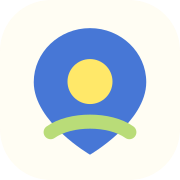
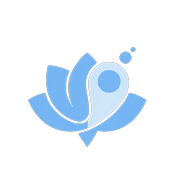
Prevent repeated invites from diluting real participants
Reuse the current browser's board session before offering another anonymous join, while aligning social copy and browser identity with the approved Yeondang logo.

Constraint: Shared invitation links must remain reusable across people

Rejected: One-time invite links | incompatible with group sharing

Confidence: high

Scope-risk: moderate

Directive: Keep the explicit other-person action because shared devices are supported

Tested: 21 Node tests; ESLint; Vite production build; asset dimensions and inclusion; diff check

Not-tested: Social crawler cache refresh and manual browser join flow

diff --git a/src/pages/JoinPage.jsx b/src/pages/JoinPage.jsx
@@ -1,12 +1,15 @@
 import { useEffect, useRef, useState } from "react";
 import { getInvitationPreview, joinBoard } from "../api/boards";
 import { ApiError } from "../api/errors";
+import { getBoardSession } from "../api/session";
 import { Brand, Button, Mascot } from "../components/UI";
+import { existingParticipantAction } from "../features/join/joinModel";
 import { navigate } from "../router/router";
 
 function previewMessage(error) {
   if (error instanceof ApiError) {
     if (error.status === 404) return "초대가 없거나 만료됐어요.";
+    if (error.code === "PARTICIPANT_LIMIT_REACHED") return "이 모임은 참여 인원이 가득 찼어요.";
     if (error.status === 409) return "닫힌 모임의 초대예요.";
     if (error.status === 429) return error.retryAfterSeconds ? `${error.retryAfterSeconds}초 뒤 다시 확인해 주세요.` : "요청이 많아요. 잠시 후 다시 시도해 주세요.";
     if ([502, 503].includes(error.status)) return "초대 정보를 불러오는 서버가 잠시 불안정해요.";
@@ -20,6 +23,7 @@ export function JoinPage({ code }) {
   const [nickname, setNickname] = useState("");
   const [error, setError] = useState("");
   const [joining, setJoining] = useState(false);
+  const [existingAction, setExistingAction] = useState(null);
   const joinControllerRef = useRef(null);
 
   useEffect(() => () => joinControllerRef.current?.abort(), []);
@@ -33,6 +37,7 @@ export function JoinPage({ code }) {
           return;
         }
         setPreview(response);
+        setExistingAction(existingParticipantAction(response, getBoardSession(response.boardId)));
         setStatus("ready");
       })
       .catch((requestError) => {
@@ -67,5 +72,6 @@ export function JoinPage({ code }) {
   if (status === "loading") return <main className="flex min-h-screen items-center justify-center p-5 text-ink-2">초대를 확인하는 중이에요…</main>;
   if (status === "closed") return <main className="flex min-h-screen items-center justify-center p-5 text-center"><div><h1 className="text-2xl font-bold">닫힌 모임이에요</h1><p className="mt-2 text-ink-2">새 초대 링크를 받아 다시 시도해 주세요.</p><Button className="mt-5" onClick={() => navigate("/")}>홈으로</Button></div></main>;
   if (status === "error") return <main className="flex min-h-screen items-center justify-center p-5 text-center"><div><h1 className="text-2xl font-bold">열 수 없는 초대예요</h1><p className="mt-2 text-ink-2">{error}</p><Button className="mt-5" onClick={() => navigate("/")}>홈으로</Button></div></main>;
+  if (existingAction?.shouldReturn) return <main className="flex min-h-screen items-center justify-center bg-[linear-gradient(150deg,#eaf8ff,#fffdf3)] p-5"><section className="w-full max-w-md rounded-[28px] border border-white bg-white/85 p-6 text-center shadow-[0_18px_45px_rgba(40,90,130,.12)]"><Brand className="justify-center" /><h1 className="mt-8 text-2xl font-black">이미 참여 중인 모임이에요</h1><p className="mt-2 text-sm text-ink-2">{preview?.boardName} 모임으로 돌아갈 수 있어요.</p><Button className="mt-6" onClick={() => navigate(`/boards/${existingAction.boardId}`)}>모임으로 돌아가기</Button><Button variant="line" className="mt-2" onClick={() => setExistingAction(null)}>다른 사람으로 참여</Button></section></main>;
   return <main className="flex min-h-screen items-center justify-center bg-[linear-gradient(150deg,#eaf8ff,#fffdf3)] p-5"><form className="relative w-full max-w-md overflow-hidden rounded-[28px] border border-white bg-white/85 p-6 shadow-[0_18px_45px_rgba(40,90,130,.12)]" onSubmit={(event) => { event.preventDefault(); submit(); }}><Brand compact /><p className="mt-8 inline-flex rounded-lg bg-grass-soft px-2.5 py-1 text-sm font-black text-[#55762c]">{preview?.boardName}에 초대받았어요</p><h1 className="mt-3 text-[27px] font-black leading-tight tracking-tight">모임에서 쓸<br />이름을 알려주세요</h1><p className="mt-2 max-w-[16rem] text-sm leading-6 text-ink-2">다음 단계에서 출발지를 선택할 수 있어요. 정확한 출발지는 다른 참여자에게 보이지 않아요.</p><Mascot className="absolute right-1 top-16 h-28 w-32" /><input value={nickname} onChange={(event) => { setNickname(event.target.value); setError(""); }} maxLength="20" className="mt-7 w-full rounded-[16px] border border-line bg-white p-4 font-bold" placeholder="닉네임" />{error && <p className="mt-2 text-sm text-coral">{error}</p>}<Button type="submit" className="mt-5" disabled={joining}>{joining ? "입장하는 중…" : "입장하고 출발지 설정"}</Button></form></main>;
 }

diff --git a/index.html b/index.html
@@ -2,19 +2,20 @@
 <html lang="ko">
   <head>
     <meta charset="UTF-8" />
-    <link rel="icon" type="image/svg+xml" href="/favicon.svg" />
+    <link rel="icon" type="image/png" sizes="32x32" href="/favicon-32x32.png" />
+    <link rel="icon" type="image/png" sizes="192x192" href="/favicon-192x192.png" />
     <link rel="apple-touch-icon" href="/apple-touch-icon.png" />
     <meta name="viewport" content="width=device-width, initial-scale=1.0" />
-    <meta name="description" content="각자의 출발지에서 공평한 만남 장소를 함께 찾는 모임 약속 서비스, 연당" />
+    <meta name="description" content="친구들과 가장 만나기 좋은 장소를 함께 찾는 모임 약속 서비스, 연당" />
     <meta name="theme-color" content="#fffdf3" />
     <meta property="og:type" content="website" />
     <meta property="og:title" content="연당 · 어디서 만날지, 함께 찾아봐요" />
-    <meta property="og:description" content="친구들과 공평한 만남 장소를 찾아보세요." />
-    <meta property="og:image" content="https://www.yeondang.com/og-image.png" />
+    <meta property="og:description" content="친구들과 가장 만나기 좋은 장소를 찾아보세요." />
+    <meta property="og:image" content="https://www.yeondang.com/og-image-v2.png" />
     <meta name="twitter:card" content="summary_large_image" />
     <meta name="twitter:title" content="연당 · 어디서 만날지, 함께 찾아봐요" />
-    <meta name="twitter:description" content="친구들과 공평한 만남 장소를 찾아보세요." />
-    <meta name="twitter:image" content="https://www.yeondang.com/og-image.png" />
+    <meta name="twitter:description" content="친구들과 가장 만나기 좋은 장소를 찾아보세요." />
+    <meta name="twitter:image" content="https://www.yeondang.com/og-image-v2.png" />
     <title>연당</title>
   </head>
   <body>

diff --git a/src/features/join/joinModel.test.js b/src/features/join/joinModel.test.js
@@ -1,0 +1,17 @@
+import test from "node:test";
+import assert from "node:assert/strict";
+import { existingParticipantAction } from "./joinModel.js";
+
+test("초대 보드의 기존 세션이 있으면 모임 복귀를 우선한다", () => {
+  assert.deepEqual(
+    existingParticipantAction(
+      { boardId: "brd-1" },
+      { participantId: "ptc-1", participantToken: "token" },
+    ),
+    { boardId: "brd-1", shouldReturn: true },
+  );
+});
+
+test("기존 세션이 없으면 새 참여 폼을 유지한다", () => {
+  assert.equal(existingParticipantAction({ boardId: "brd-1" }, null), null);
+});

diff --git a/src/features/join/joinModel.js b/src/features/join/joinModel.js
@@ -1,0 +1,5 @@
+export function existingParticipantAction(preview, session) {
+  const boardId = preview?.boardId;
+  if (typeof boardId !== "string" || !boardId || !session) return null;
+  return { boardId, shouldReturn: true };
+}
